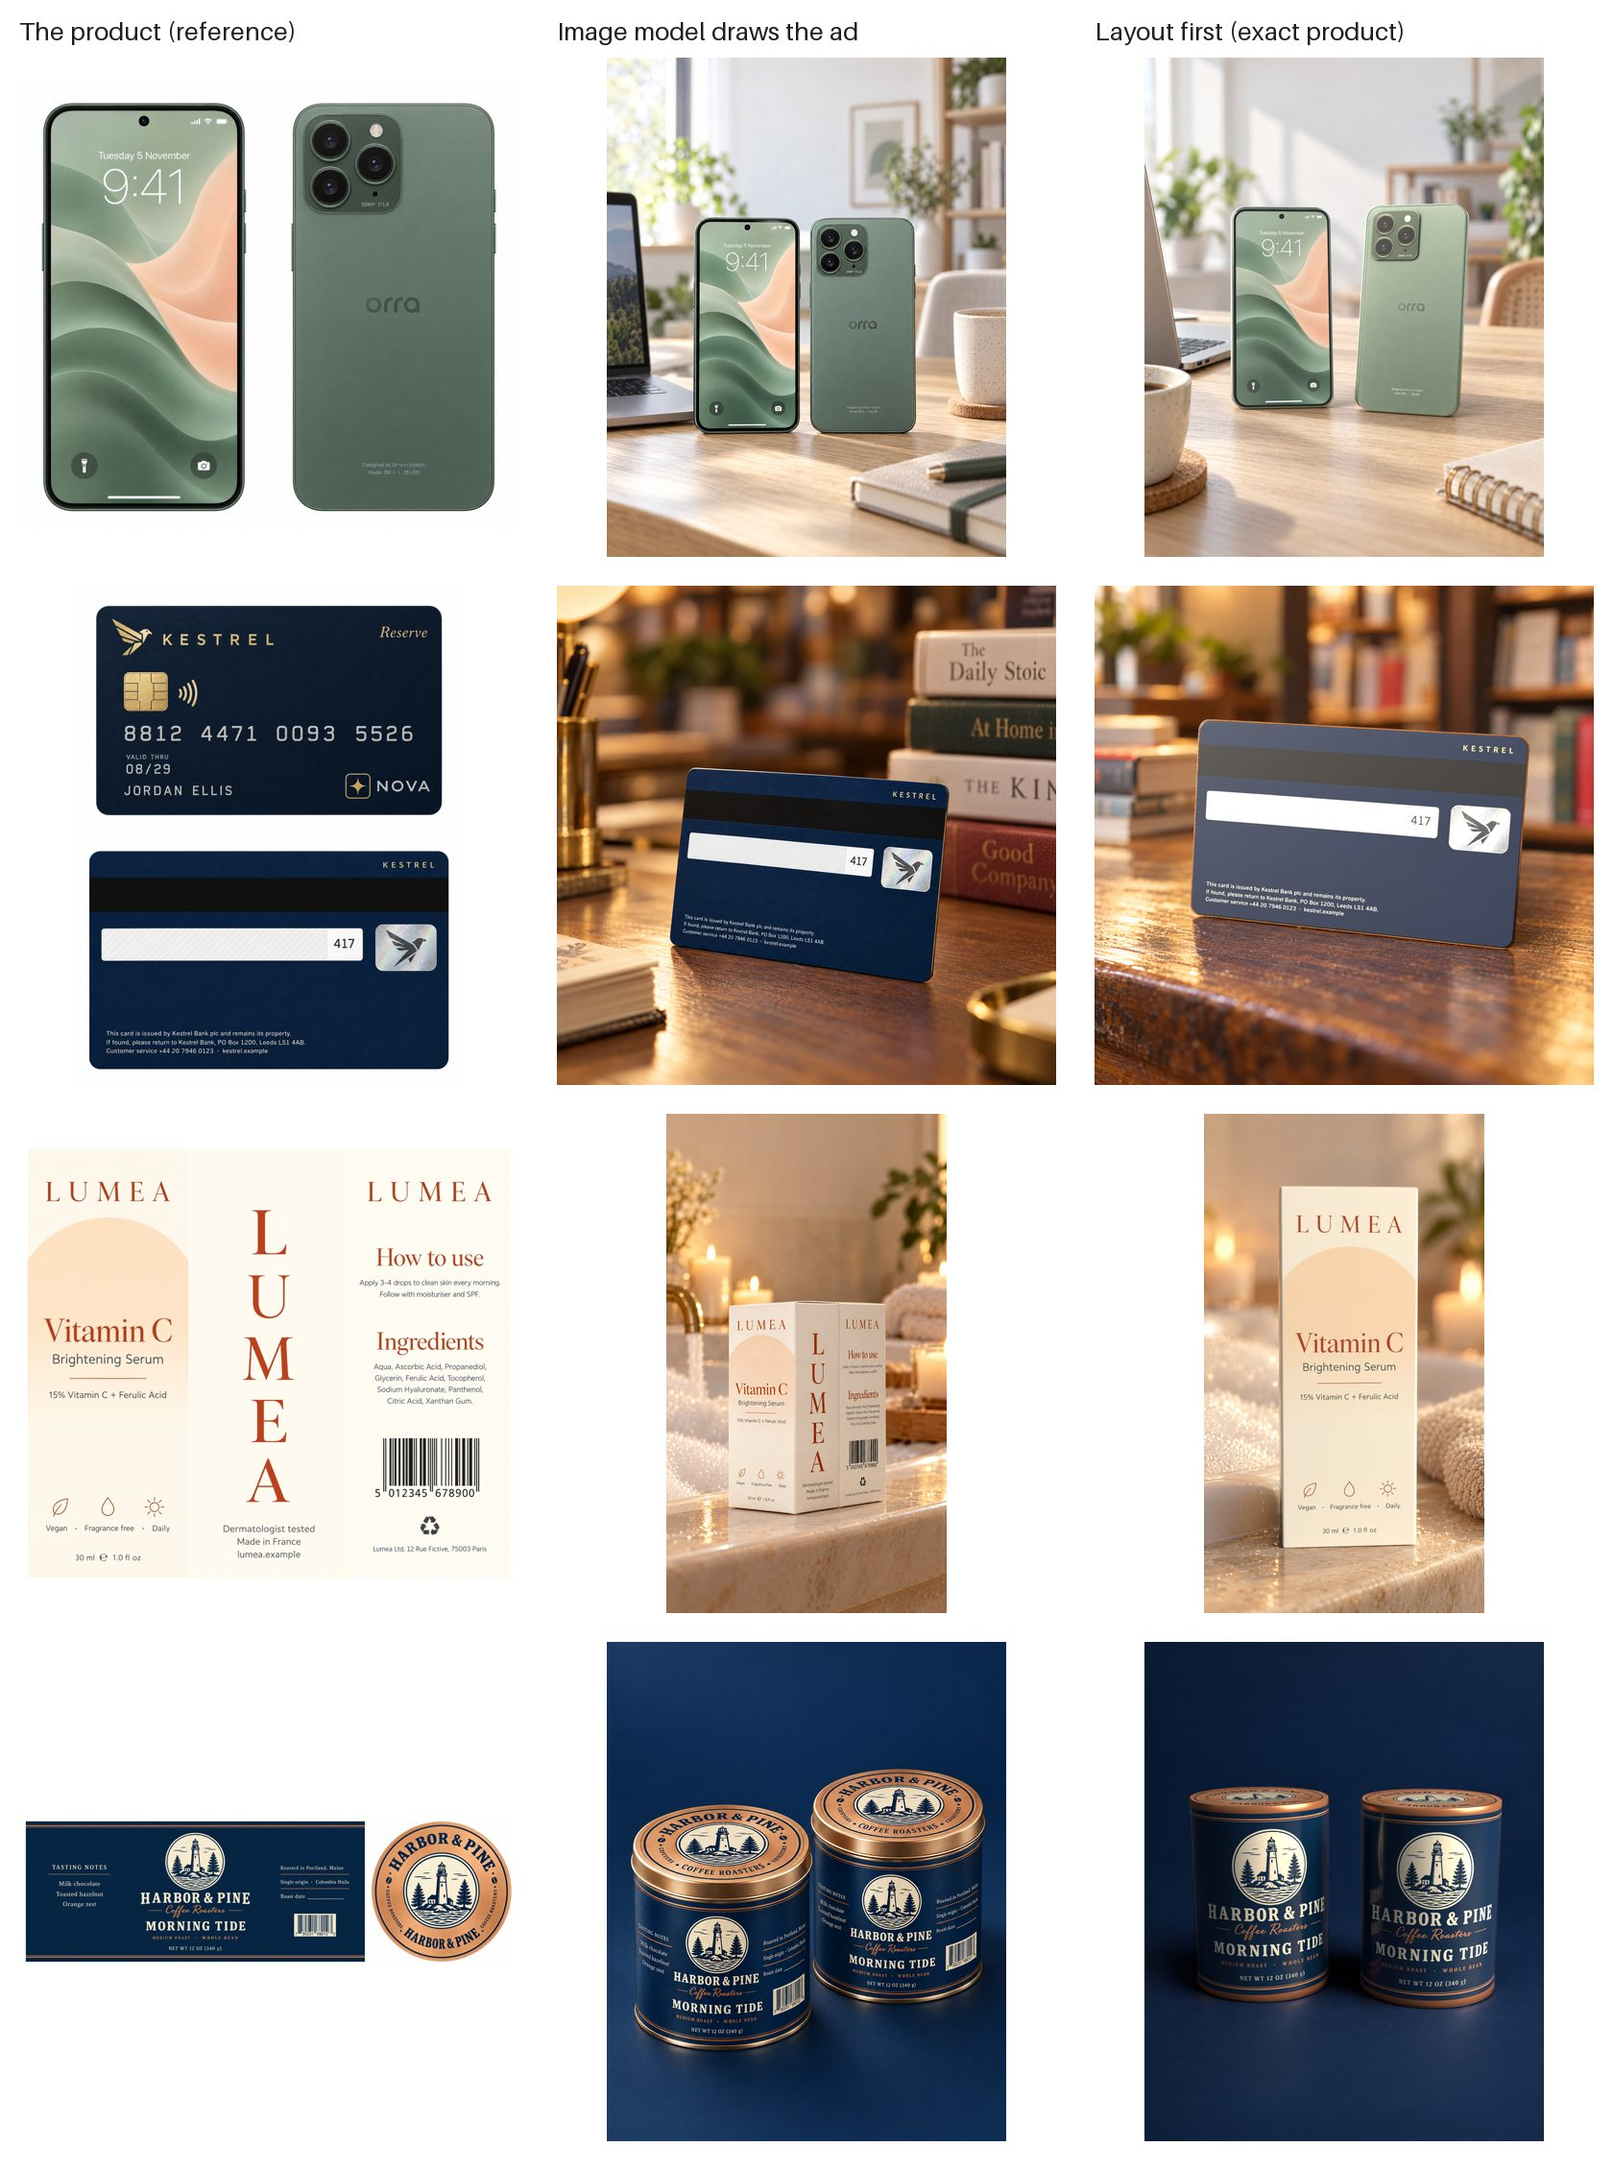
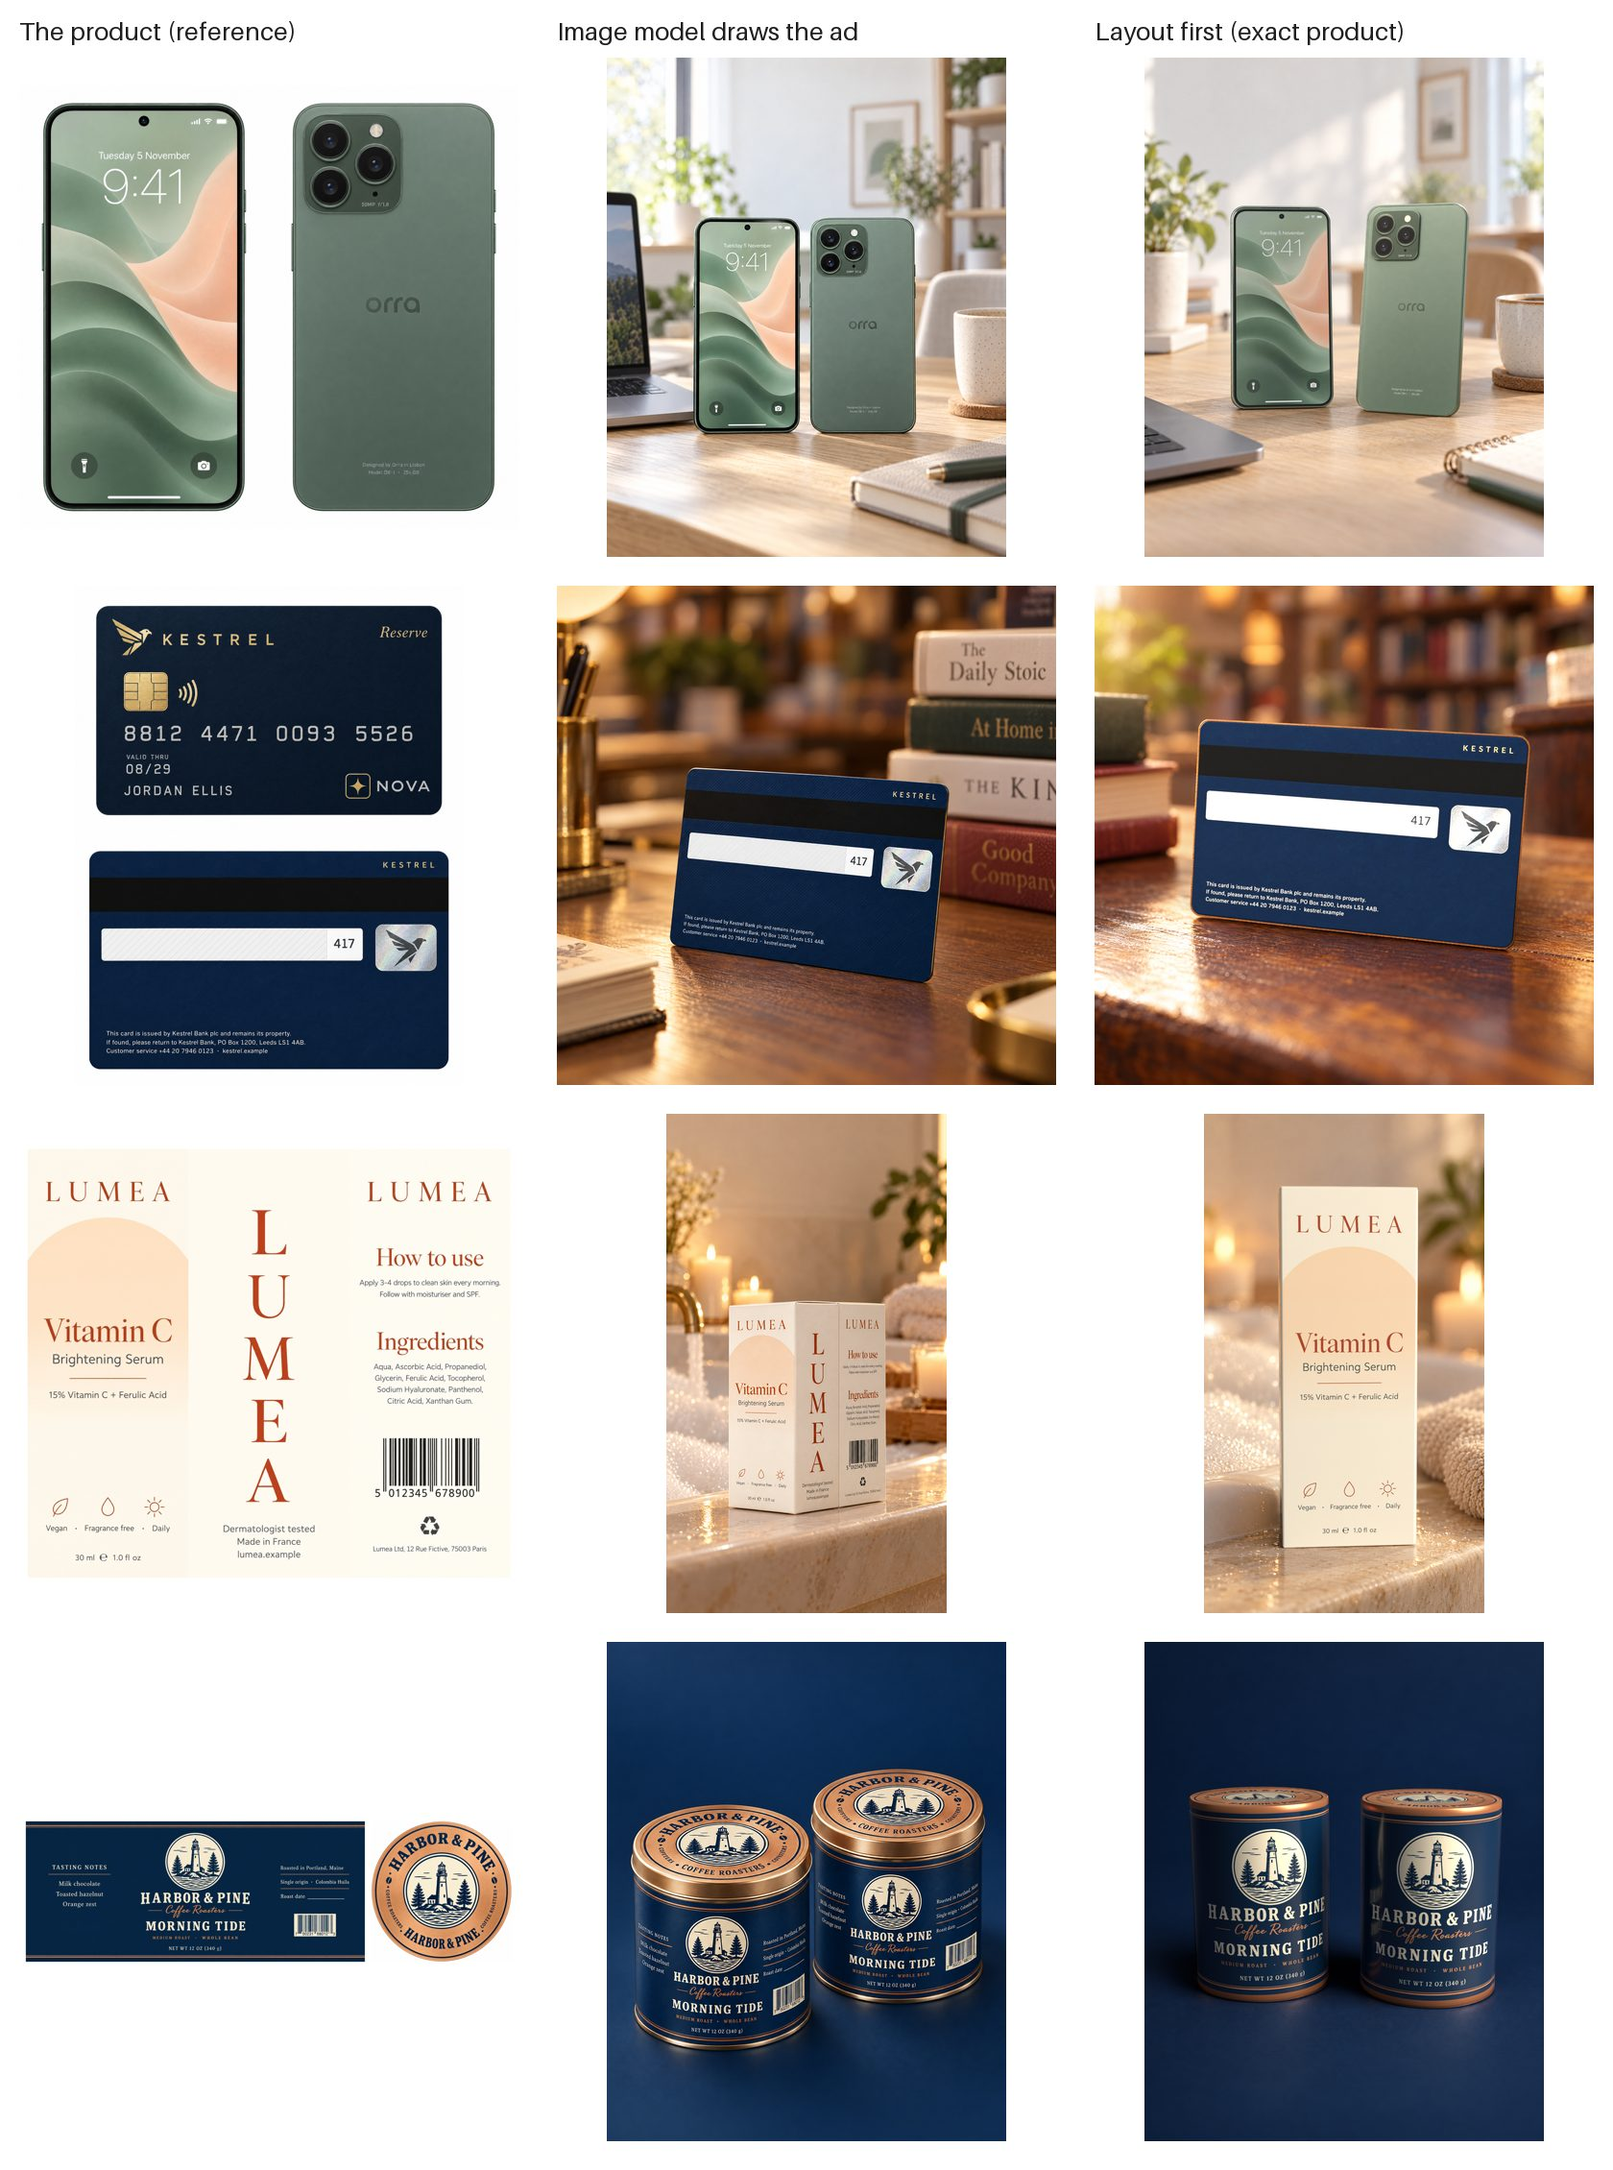
Fix card and phone materials, rerun their layout-first arms
The card's matte finish turned its printed navy grey under a bright sky; a new soft_touch finish (almost no sheen) keeps dark inks dark. The phone's back rendered about 1.4x brighter than its photo; its exposure is down 0.4 stops and its frosted glass has less sheen. Reran Blender and layout first for both (image-model ads unchanged): the card's layout-first product scores of 3 or less fell from 28% to 3% and its ship rate rose from 10% to 23%; the phone's win rate went from 33% to 37%. Report, README and example sheets updated.

Changed region(s): [[0.681, 0.0, 0.9905, 0.5265]]

diff --git a/shots/bpy/templates.py b/shots/bpy/templates.py
@@ -26,7 +26,9 @@ FINISHES = {
     "printed_metal": {"Roughness": 0.22, "Metallic": 1.0, "Coat Weight": 0.6, "Coat Roughness": 0.04},
     # Phone screens and glass backs.
     "glass": {"Roughness": 0.08, "Coat Weight": 0.15, "Coat Roughness": 0.03},
-    "frosted_glass": {"Roughness": 0.55, "Specular IOR Level": 0.15, "Coat Weight": 0.05, "Coat Roughness": 0.3},
+    "frosted_glass": {"Roughness": 0.6, "Specular IOR Level": 0.05, "Coat Weight": 0.03, "Coat Roughness": 0.3},
+    # Soft-touch laminate on a printed card: almost no sheen, so dark inks stay dark under a bright sky.
+    "soft_touch": {"Roughness": 0.7, "Specular IOR Level": 0.04},
 }
 
 

diff --git a/results/report.md b/results/report.md
@@ -2,7 +2,7 @@
 
 ![The product, the image model's ad and layout first's ad for the same brief](../docs/img/bench_products.jpg)
 
-**Short version:** an image model that draws the whole ad still wins more briefs on every product, but how often depends on the product. It copies flat things seen straight on (a phone, a card) almost perfectly. It gets things wrong when it has to bend or fold the artwork into 3D (a tin's label and lid, a carton): there it squashes the shape, puts every panel on the front and garbles curved text. Layout first never changes a product pixel (219 of 219 ads passed the pixel check), and it is only as good as its 3D model and its lighting.
+**Short version:** an image model that draws the whole ad still wins more briefs on every product, but how often depends on the product. It copies flat things seen straight on (a phone, a card) almost perfectly. It gets things wrong when it has to bend or fold the artwork into 3D (a tin's label and lid, a carton): there it squashes the shape, puts every panel on the front and garbles curved text. Layout first never changes a product pixel (220 of 220 ads passed the pixel check), and it is only as good as its 3D model and its lighting.
 
 ## The products
 
@@ -22,11 +22,11 @@ Blind judge (Gemini 3.1 Pro) sees the reference, then the three ads in random or
 
 | | Coca-Cola | Phone | Card | Serum box | Coffee tin |
 |---|---|---|---|---|---|
-| **Ranked first**, image model / layout first | 98% / 2% | 67% / 33% | 90% / 10% | 57% / 43% | 70% / 30% |
-| **Would ship**, image model / layout first | 78% / 0% | 70% / 40% | 86% / 10% | 57% / 33% | 40% / 17% |
-| **Product scored 3 or less**, image model / layout first | 6% / 35% | 0% / 20% | 0% / 28% | **37%** / 20% | **37%** / 43% |
-| **Realism (1-10)**, image model / layout first | 7.0 / 4.8 | 6.9 / 6.1 | 7.1 / 5.1 | 6.2 / 5.9 | 6.8 / 5.5 |
-| Layout first pixel check | 100 / 100 | 30 / 30 | 29 / 29 | 30 / 30 | 30 / 30 |
+| **Ranked first**, image model / layout first | 98% / 2% | 63% / 37% | 90% / 10% | 57% / 43% | 70% / 30% |
+| **Would ship**, image model / layout first | 78% / 0% | 63% / 37% | 90% / 23% | 57% / 33% | 40% / 17% |
+| **Product scored 3 or less**, image model / layout first | 6% / 35% | 3% / 20% | 0% / 3% | **37%** / 20% | **37%** / 43% |
+| **Realism (1-10)**, image model / layout first | 7.0 / 4.8 | 6.9 / 6.2 | 7.1 / 5.6 | 6.2 / 5.9 | 6.8 / 5.5 |
+| Layout first pixel check | 100 / 100 | 30 / 30 | 30 / 30 | 30 / 30 | 30 / 30 |
 
 Blender alone (the layout render on its plain set) won no brief anywhere. Cost per ad was about $0.09 for both image-model arms.
 
@@ -39,13 +39,13 @@ A second check looks at one ad at a time against the reference, item by item: ea
 | Image model: ads with every item right | 40% | 100% | 100% | 87% | 20% |
 | Image model: items wrong | 27% | 0% | 0% | 0% | 17% |
 | Image model: ads with invented marks | 11% | 0% | 0% | 10% | 17% |
-| Layout first (checker noise): items "wrong" | 57% * | 19% | 17% | 8% | 14% |
+| Layout first (checker noise): items "wrong" | 57% * | 15% | 16% | 8% | 14% |
 
 \* Our Coca-Cola can was rebuilt from the wordmark, not the real print file, so here the checker also counts our label's real differences from the photo.
 
 What we saw, looking at the ads ourselves:
 
-- **Flat products shown the way the reference shows them are copied exactly.** All 59 phone and card ads had every line right, down to the card's three lines of issuer small print. The image model's only phone slip was the number of side buttons.
+- **Flat products shown the way the reference shows them are copied exactly.** All 60 phone and card ads had every line right, down to the card's three lines of issuer small print. The image model's only phone slip was the number of side buttons.
 - **Artwork that must wrap round a cylinder breaks.** On the coffee tin, 21 of 30 lids had garbled or doubled ring text ("COFEYERS", "COFASTERS", HARBOR & PINE twice), and the judge scored the product 3 or less in 11 of 30 ads, mostly because the whole wrap-around label (tasting notes and origin panels included) was squeezed onto the front, which a real tin can't show at once. On Coca-Cola, the script logo was wrong in 43 of 100 ads and "12 FL OZ" in 49.
 - **Wrong shapes.** Given the carton's flat print artwork, the image model pasted two or three panels side by side across a wide, squat box in 11 of 30 serum ads (all 11 the judge scored 3 or less). The tins came out squat too. Every word was spelt right in those ads, so the item checker passed them; only the head-to-head judge caught them. A real packshot photo as reference might avoid this; flat print files are what many brands hand over, so we tested with them.
 - **The item checker is lenient on shape.** It called shape right in 100% of image-model coffee and serum ads; we found clear proportion errors in several. Use the judge's "product scored 3 or less" for shape.
@@ -53,14 +53,29 @@ What we saw, looking at the ads ourselves:
 ## Why the image model still wins most briefs
 
 1. **It lights the product with the scene.** Layout first keeps the product as Blender lit it, and only the room around it is repainted. A studio-lit product in a candle-lit bathroom looks pasted in, and the judge marks realism down by 1-2 points every time.
-2. **Our 3D materials aren't tuned yet.** The card renders slate grey instead of deep navy (matte sheen under bright light), and the phone's back renders paler than its photo. The item checker called layout first's card the wrong colour in 60% of ads. Both are fixable in the material, not in the method.
+2. **Materials matter, and we tuned two after the first run.** At first the card rendered slate grey instead of deep navy (the matte finish's sheen under a bright sky) and the phone's back came out paler than its photo. A soft-touch finish with almost no sheen and a lower exposure for the phone fixed most of it (see below), but the remaining gap is light, not colour.
 3. **The judge forgives believable mistakes.** A squat tin with all panels on the front still looks like a great photo, and often still ranks first. A brand would reject it.
 4. **Famous products are easy.** On Coca-Cola the image model has seen the can countless times. On made-up products it has only the reference, and where 3D is involved it shows.
+
+## Fixing the card and phone materials
+
+The first run of the card and phone used a matte finish whose sheen turned the printed navy (RGB about 14, 27, 44) into grey-blue (about 70-110) under a bright sky, and lit the phone's back about 1.4 times brighter than its photo. We added a `soft_touch` finish (almost no sheen), turned the phone's exposure down 0.4 stops and its frosted glass's sheen down, and reran only Blender and layout first (the image model's ads and prompts were unchanged):
+
+| | Card, before → after | Phone, before → after |
+|---|---|---|
+| Layout first product scored 3 or less | 28% → **3%** | 20% → 20% |
+| Layout first product score (1-10) | 4.6 → **5.6** | 5.4 → 5.6 |
+| Layout first realism | 5.1 → 5.6 | 6.1 → 6.2 |
+| Layout first would ship | 10% → 23% | 40% → 37% |
+| Layout first ranked first | 10% → 10% | 33% → 37% |
+| Checker: card colour right | 40% → 80% | 90% → 97% |
+
+The card's product complaints mostly went away. It still loses the ranking on light: the image model's card sits in the scene's light, ours in Blender's.
 
 ## What would close the gap
 
 - **Relight the product from the repainted room:** an environment map from the repaint, then render the product again under it.
-- **Material presets per product type** (printed card plastic, frosted glass, printed tin), checked against the reference photo before any ads are made.
+- **Check the material before making ads:** render the product under a few bench lights and compare its printed colours with the reference automatically. The card's grey would have been caught before any money was spent.
 - **Hero framing and styling layers in 3D** (condensation, reflections).
 
 ## Reproduce

diff --git a/README.md b/README.md
@@ -65,12 +65,12 @@ Five products, three methods each, judged blind by Gemini 3.1 Pro. Four of the p
 
 | | Coca-Cola | Phone | Card | Serum box | Coffee tin |
 |---|---|---|---|---|---|
-| Ranked first, image model / layout first | 98% / 2% | 67% / 33% | 90% / 10% | 57% / 43% | 70% / 30% |
-| Would ship, image model / layout first | 78% / 0% | 70% / 40% | 86% / 10% | 57% / 33% | 40% / 17% |
-| Image model's product scored 3 or less | 6% | 0% | 0% | **37%** | **37%** |
-| Layout first product pixels exact | 100 / 100 | 30 / 30 | 29 / 29 | 30 / 30 | 30 / 30 |
+| Ranked first, image model / layout first | 98% / 2% | 63% / 37% | 90% / 10% | 57% / 43% | 70% / 30% |
+| Would ship, image model / layout first | 78% / 0% | 63% / 37% | 90% / 23% | 57% / 33% | 40% / 17% |
+| Image model's product scored 3 or less | 6% | 3% | 0% | **37%** | **37%** |
+| Layout first product pixels exact | 100 / 100 | 30 / 30 | 30 / 30 | 30 / 30 | 30 / 30 |
 
-**The image model wins more briefs on every product, by how much depends on the product.** It copies flat things seen straight on (the phone, the card, down to the card's small print) almost perfectly. When it has to wrap or fold the artwork into 3D, it breaks the product: squat tins with every label panel squeezed onto the front, garbled lid text ("COFEYERS"), cartons with three panels pasted across one wide face. Those are believable photos a brand can't run. Layout first keeps every product pixel, but its product keeps Blender's light, and our card and phone materials still render too pale. Full write-up: [results/report.md](results/report.md); Coca-Cola details: [results/coca-cola/report.md](results/coca-cola/report.md).
+**The image model wins more briefs on every product, by how much depends on the product.** It copies flat things seen straight on (the phone, the card, down to the card's small print) almost perfectly. When it has to wrap or fold the artwork into 3D, it breaks the product: squat tins with every label panel squeezed onto the front, garbled lid text ("COFEYERS"), cartons with three panels pasted across one wide face. Those are believable photos a brand can't run. Layout first keeps every product pixel, but its product keeps Blender's light. Fixing our card's material (it first rendered grey) cut its bad product scores from 28% to 3%, but not its losses. Full write-up: [results/report.md](results/report.md); Coca-Cola details: [results/coca-cola/report.md](results/coca-cola/report.md).
 <!-- BENCH:END -->
 
 ## Quickstart

diff --git a/docs/files.md b/docs/files.md
@@ -9,7 +9,7 @@
 | `template` | all | `box`, `cylinder` or `slab`. See [templates.md](templates.md). |
 | `dimensions_mm` | all | Real size. box: `width`, `depth`, `height`. cylinder: `diameter`, `height`. slab: `width`, `height`, `depth` (thickness). |
 | `body_color` | all | sRGB `[r, g, b]` for any area without a texture. |
-| `finish` | all | `matte`, `paper`, `glossy`, `metal`, `plastic`, `aluminium` (bare can metal), `printed_metal` (ink on metal under varnish, as on drinks cans: coloured ink lets the metal shine through, white and black ink don't), `glass` (a phone screen) or `frosted_glass` (a matte glass back). |
+| `finish` | all | `matte`, `paper`, `glossy`, `metal`, `plastic`, `aluminium` (bare can metal), `printed_metal` (ink on metal under varnish, as on drinks cans: coloured ink lets the metal shine through, white and black ink don't), `glass` (a phone screen), `frosted_glass` (a matte glass back) or `soft_touch` (a printed card with almost no sheen, so dark inks stay dark). |
 | `faces` | box, slab | box: `front`, `back`, `left`, `right`, `top`, `bottom`; slab: `front`, `back`. Texture paths relative to the product folder. Missing faces use `body_color`. |
 | `bevel_mm` | box, slab | Edge rounding, default 0.8 (box) or 0.5 (slab). |
 | `corner_radius_mm` | slab | Rounding of the outline's corners, as seen from the front. Make it a touch larger than the photo's so no background shows at the corners. |
